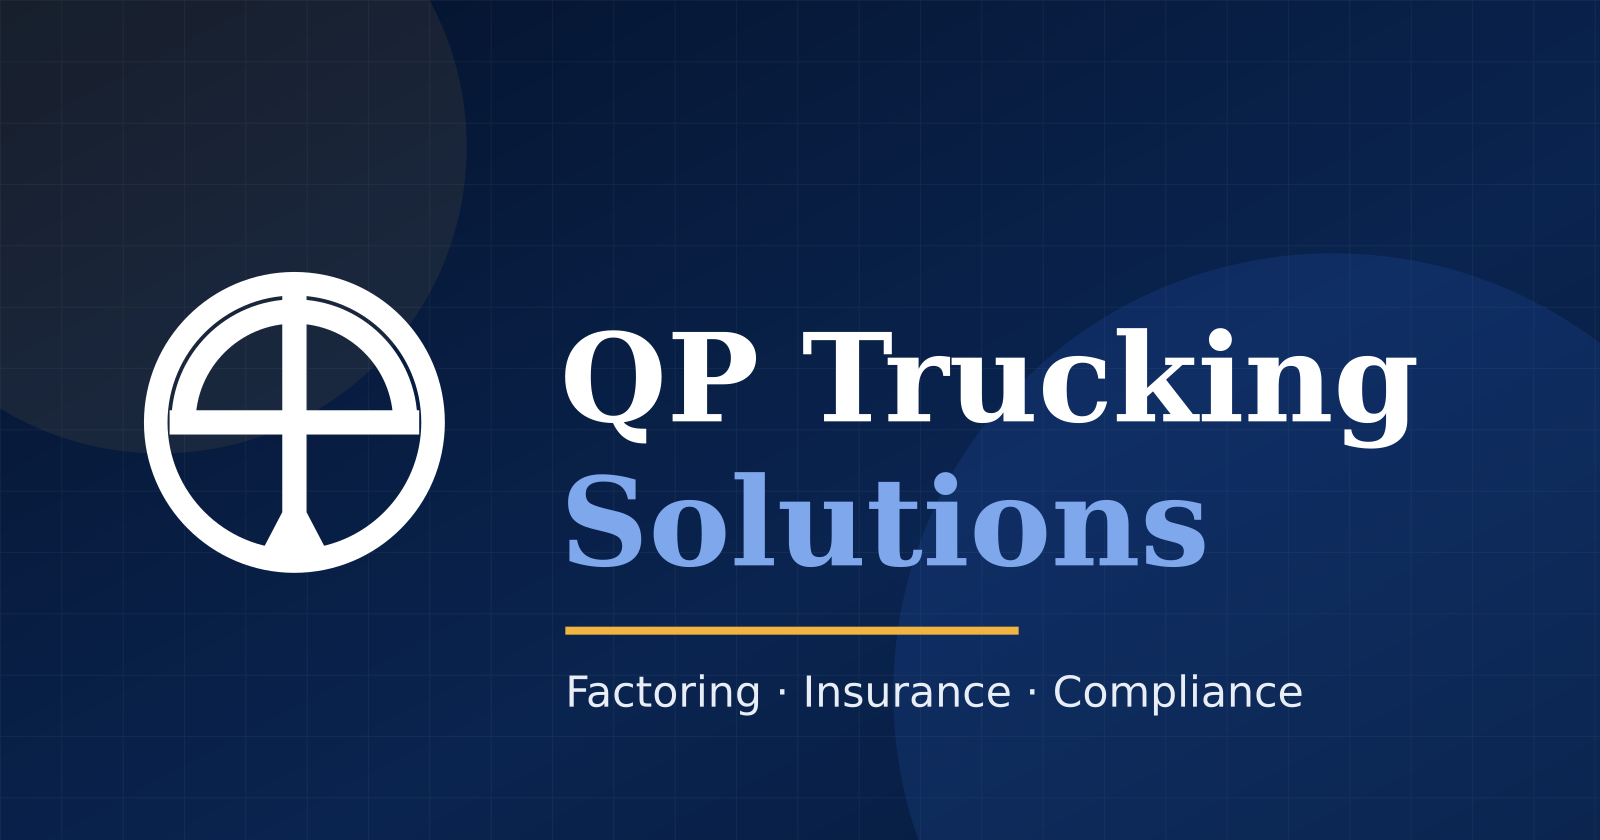
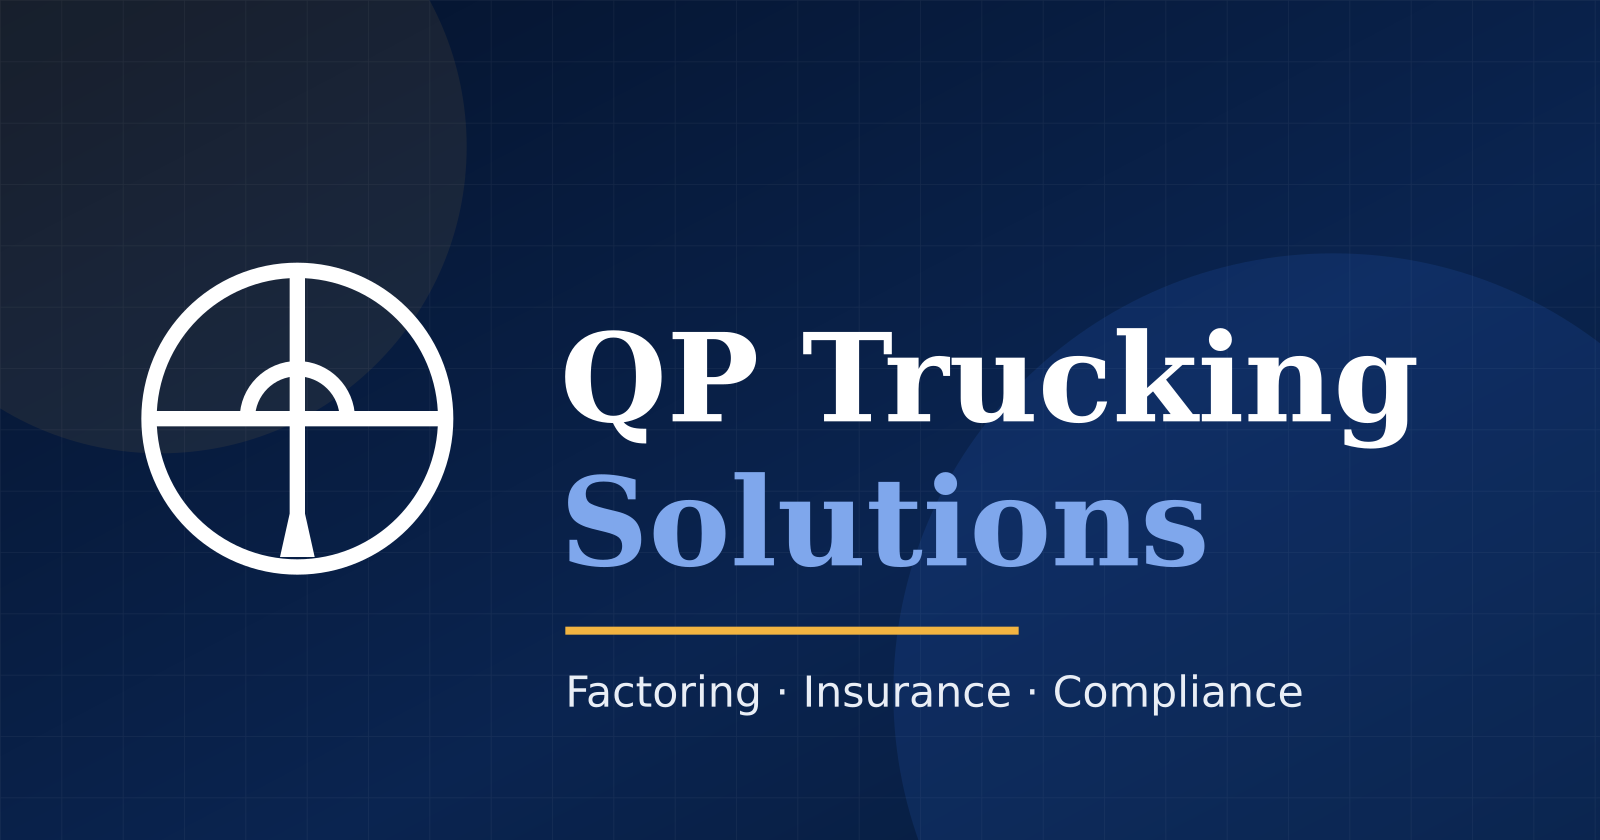
Match delivered QP mark geometry exactly (uniform strokes, 0.32R dome, flared foot)
Re-measured against the delivered mark-only artwork: slimmer uniform
strokes (~0.10R), inner Q/P dome reduced to ~0.32R, full-width crossbar
fusing into the ring, and the stem's flared foot matched to the source.
Updated everywhere: QPMark component (header/footer/marquee/intro decals),
favicon, and regenerated qp-logo.png / qp-icon.png / qp-og.png.

Changed region(s): [[0.0938, 0.3095, 0.2812, 0.681]]

diff --git a/src/components/brand.tsx b/src/components/brand.tsx
@@ -3,21 +3,21 @@ import { org } from "@/content/site";
 
 /**
  * The official QP Trucking Solutions mark, rebuilt as crisp SVG from the
- * delivered brand file: the outer ring, the shared Q/P stem with its flared
- * foot, the crossbar, and the two bows that form the Q and P.
- * Single-colour, exactly like the source logo (96×96 box).
+ * delivered brand file: the outer ring, the shared Q/P dome, the full-width
+ * crossbar, and the stem with its flared foot joining the ring.
+ * Single-colour, exactly like the source logo (96-unit box).
  */
 export function QPMark({ className, tone = "navy" }: { className?: string; tone?: "navy" | "white" | "gold" }) {
-  const c = tone === "white" ? "#ffffff" : tone === "gold" ? "#f2b441" : "#1b4fa0";
+  const c = tone === "white" ? "#ffffff" : tone === "gold" ? "#f2b441" : "#17479b";
 
   return (
     <svg viewBox="0 0 96 96" className={className} role="img" aria-label="QP Trucking Solutions">
-      <g fill="none" stroke={c}>
-        <circle cx="48" cy="48" r="40" strokeWidth="6.8" />
-        <path d="M16 48a32 32 0 0 1 64 0" strokeWidth="7" />
-        <path d="M12 48h72" strokeWidth="7" />
+      <g fill="none" stroke={c} strokeWidth="4.6">
+        <circle cx="48" cy="48" r="44.5" />
+        <path d="M33 48a15 15 0 0 1 30 0" />
+        <path d="M4.5 48h87" />
       </g>
-      <path fill={c} d="M44.5 10.5h7v63.4l6.6 12.6H37.9l6.6-12.6z" />
+      <path fill={c} d="M45.7 3.4H50.3V76.5l2.9 13H42.8l2.9-13z" />
     </svg>
   );
 }
